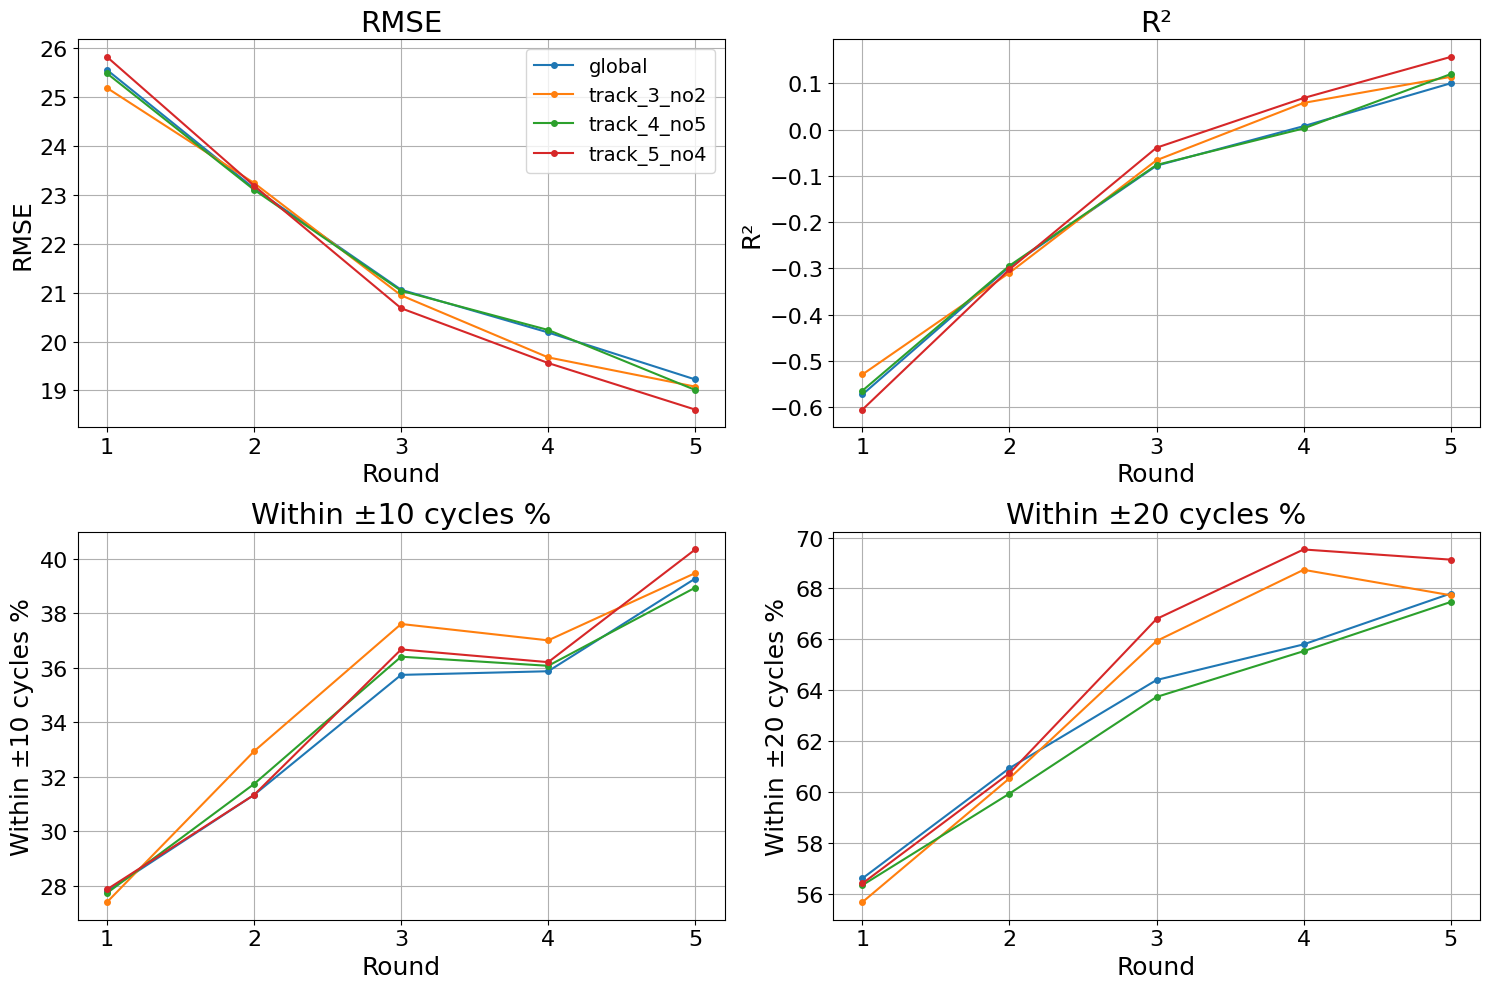
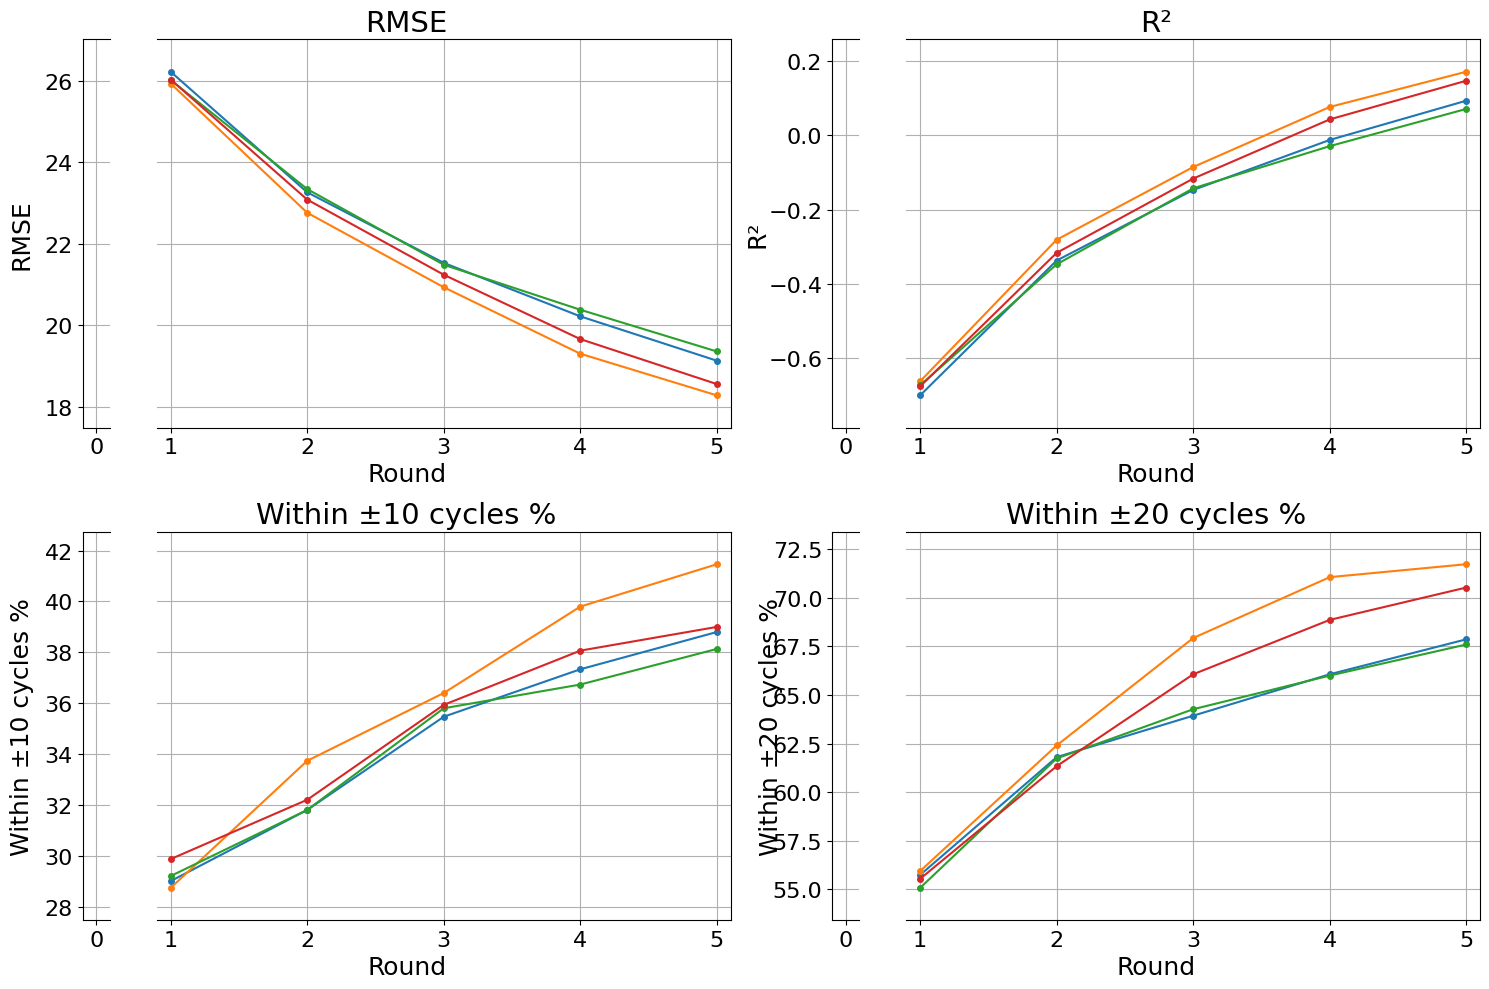
fix evaluation spacing for n-cmapss

diff --git a/scripts/gather_simulation_outputs.py b/scripts/gather_simulation_outputs.py
@@ -7,6 +7,7 @@ and organize them by scenario.
 import os
 import shutil
 import re
+import argparse
 from pathlib import Path
 from collections import defaultdict
 
@@ -53,7 +54,62 @@ def find_last_round_file(directory, pattern):
 
     return max_file
 
+def collect_track_contributions(sim_dir, scenario_num, dataset, output_dir, copied_files):
+    """Collect track contributions files."""
+    track_contrib_file = sim_dir / "output" / f"track_contributions_{sim_dir.name}.png"
+    if track_contrib_file.exists():
+        new_filename = f"s{scenario_num}_{dataset}_track_contributions.png"
+        destination = output_dir / new_filename
+        shutil.copy2(track_contrib_file, destination)
+        copied_files.append(new_filename)
+        print(f"  Copied track contributions: {new_filename}")
+        return True
+    else:
+        print(f"  Track contributions file not found: {track_contrib_file}")
+        return False
+
+def collect_model_performance(sim_dir, scenario_num, dataset, output_dir, copied_files):
+    """Collect model performance (track metrics comparison) files."""
+    plots_dir = sim_dir / "output" / "server" / "plots"
+    if plots_dir.exists():
+        track_metrics_file = find_last_round_file(plots_dir, "track_metrics_comparison_round_*.png")
+        if track_metrics_file:
+            new_filename = f"s{scenario_num}_{dataset}_track_metrics_comparison.png"
+            destination = output_dir / new_filename
+            shutil.copy2(track_metrics_file, destination)
+            copied_files.append(new_filename)
+            print(f"  Copied track metrics comparison: {new_filename}")
+            return True
+        else:
+            print(f"  Track metrics comparison file not found in: {plots_dir}")
+            return False
+    else:
+        print(f"  Plots directory not found: {plots_dir}")
+        return False
+
 def main():
+    parser = argparse.ArgumentParser(
+        description="Gather output files from FL simulation results folder and organize them by scenario.",
+        formatter_class=argparse.RawDescriptionHelpFormatter,
+        epilog="""
+Examples:
+  python gather_simulation_outputs.py --collect track_contributions
+  python gather_simulation_outputs.py --collect model_performance
+  python gather_simulation_outputs.py --collect both
+  python gather_simulation_outputs.py  # defaults to both
+        """
+    )
+
+    parser.add_argument(
+        "--collect",
+        choices=["track_contributions", "model_performance", "both"],
+        default="both",
+        help="Specify what to collect: 'track_contributions' for track contributions plots, "
+             "'model_performance' for model performance plots, or 'both' for everything (default: both)"
+    )
+
+    args = parser.parse_args()
+
     # Define paths
     results_dir = Path("results")
     output_dir = Path("results/collected_outputs")
@@ -61,8 +117,17 @@ def main():
     # Create output directory if it doesn't exist
     output_dir.mkdir(exist_ok=True)
 
+    # Determine what to collect based on arguments
+    collect_contributions = args.collect in ["track_contributions", "both"]
+    collect_performance = args.collect in ["model_performance", "both"]
+
     # Find all simulation directories
-    print("Scanning for simulation output files...")
+    print(f"Scanning for simulation output files...")
+    print(f"Collection mode: {args.collect}")
+    if collect_contributions:
+        print("  - Will collect track contributions plots")
+    if collect_performance:
+        print("  - Will collect model performance plots")
 
     copied_files = []
 
@@ -74,31 +139,12 @@ def main():
             if scenario_num is not None:
                 print(f"\nProcessing scenario {scenario_num} ({dataset}):")
 
-                # 1. Collect track contributions PNG
-                track_contrib_file = sim_dir / "output" / f"track_contributions_{sim_dir.name}.png"
-                if track_contrib_file.exists():
-                    new_filename = f"s{scenario_num}_{dataset}_track_contributions.png"
-                    destination = output_dir / new_filename
-                    shutil.copy2(track_contrib_file, destination)
-                    copied_files.append(new_filename)
-                    print(f"  Copied track contributions: {new_filename}")
-                else:
-                    print(f"  Track contributions file not found: {track_contrib_file}")
+                # Collect files based on user selection
+                if collect_contributions:
+                    collect_track_contributions(sim_dir, scenario_num, dataset, output_dir, copied_files)
 
-                # 2. Collect track metrics comparison PNG from last round
-                plots_dir = sim_dir / "output" / "server" / "plots"
-                if plots_dir.exists():
-                    track_metrics_file = find_last_round_file(plots_dir, "track_metrics_comparison_round_*.png")
-                    if track_metrics_file:
-                        new_filename = f"s{scenario_num}_{dataset}_track_metrics_comparison.png"
-                        destination = output_dir / new_filename
-                        shutil.copy2(track_metrics_file, destination)
-                        copied_files.append(new_filename)
-                        print(f"  Copied track metrics comparison: {new_filename}")
-                    else:
-                        print(f"  Track metrics comparison file not found in: {plots_dir}")
-                else:
-                    print(f"  Plots directory not found: {plots_dir}")
+                if collect_performance:
+                    collect_model_performance(sim_dir, scenario_num, dataset, output_dir, copied_files)
 
     print(f"\nDone! All collected files are in: {output_dir}")
     print(f"Total files copied: {len(copied_files)}")
@@ -108,8 +154,10 @@ def main():
     contrib_files = [f for f in copied_files if "track_contributions" in f]
     metrics_files = [f for f in copied_files if "track_metrics_comparison" in f]
 
-    print(f"  Track contributions files: {len(contrib_files)}")
-    print(f"  Track metrics comparison files: {len(metrics_files)}")
+    if contrib_files:
+        print(f"  Track contributions files: {len(contrib_files)}")
+    if metrics_files:
+        print(f"  Track metrics comparison files: {len(metrics_files)}")
 
     # Print summary by dataset
     mnist_files = [f for f in copied_files if "mnist" in f]

diff --git a/fl_server/evaluation.py b/fl_server/evaluation.py
@@ -1261,7 +1261,21 @@ def plot_track_progress(server, round_num, should_plot_all=True):
 
                 bax.set_title(title, fontsize=21)
                 bax.set_xlabel('Round', fontsize=18, labelpad=25)
-                bax.set_ylabel(title, fontsize=18, labelpad=50)
+
+                # Set different y-label padding based on metric and experiment type
+                if server.experiment_type == "n_cmapss":
+                    if metric == "rmse":
+                        ylabel_pad = 20
+                    elif metric == "within_10_cycles":
+                        ylabel_pad = 80
+                    elif metric == "within_20_cycles":
+                        ylabel_pad = 80
+                    else:  # r_squared
+                        ylabel_pad = 50
+                else:  # mnist
+                    ylabel_pad = 50
+
+                bax.set_ylabel(title, fontsize=18, labelpad=ylabel_pad)
                 bax.grid(True)
 
                 # Set tick font sizes and customize x-axis ticks
@@ -1271,10 +1285,16 @@ def plot_track_progress(server, round_num, should_plot_all=True):
                     if i == 0:
                         ax.set_xticks([0])
                         ax.set_xticklabels(['0'])
+                        # Format y-axis to show 2 decimal places for MNIST
+                        if server.experiment_type == "mnist":
+                            ax.yaxis.set_major_formatter(plt.FuncFormatter(lambda x, p: f'{x:.2f}'))
                     # For the second (right) axis, show the actual track rounds
                     elif i == 1 and rounds:
                         ax.set_xticks(rounds)
                         ax.set_xticklabels([str(r) for r in rounds])
+                        # Format y-axis to show 2 decimal places for MNIST
+                        if server.experiment_type == "mnist":
+                            ax.yaxis.set_major_formatter(plt.FuncFormatter(lambda x, p: f'{x:.2f}'))
 
                 # Only add legend to the first subplot to save space
                 if i == 0:
